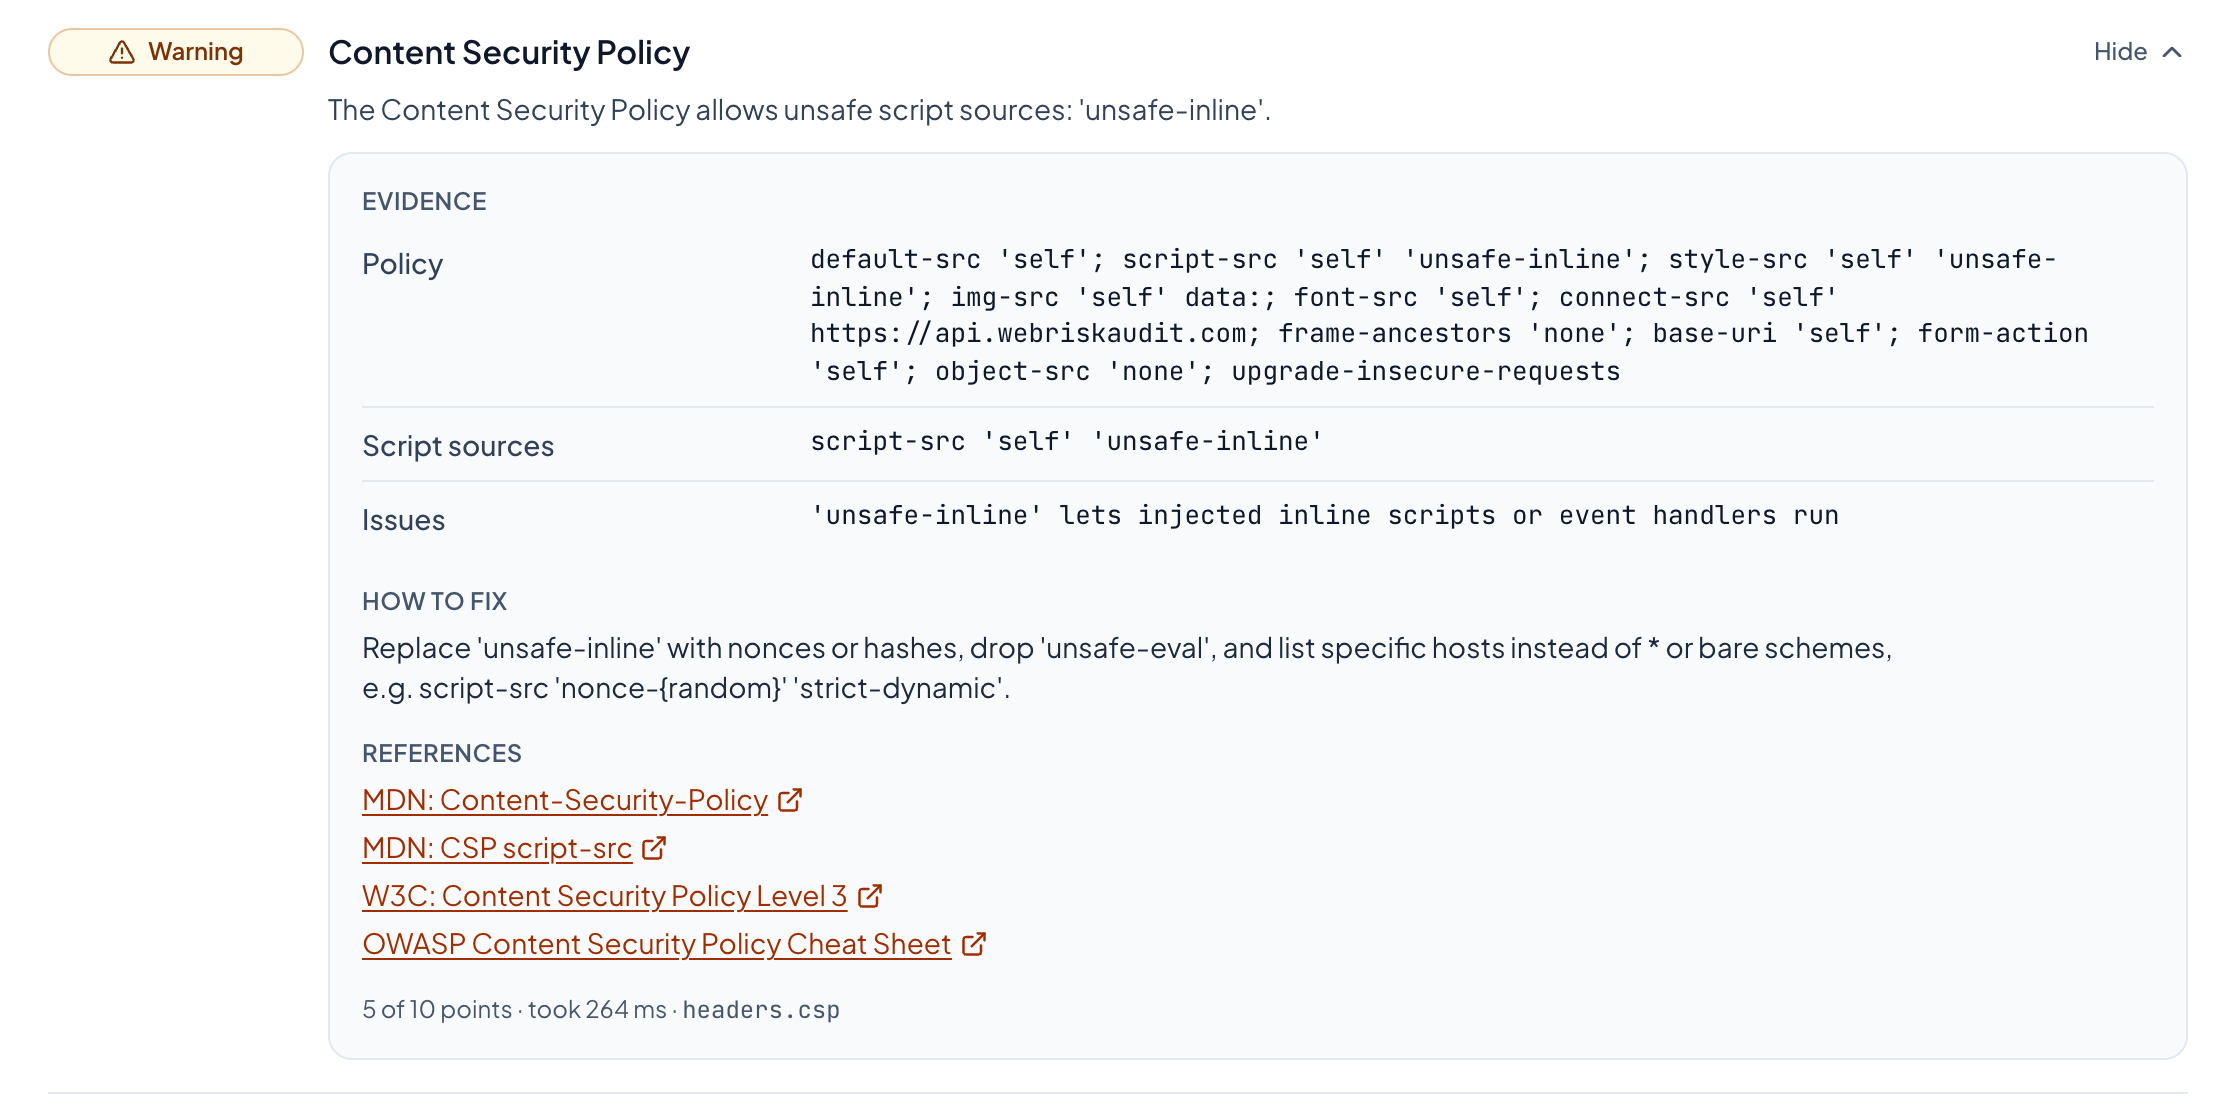
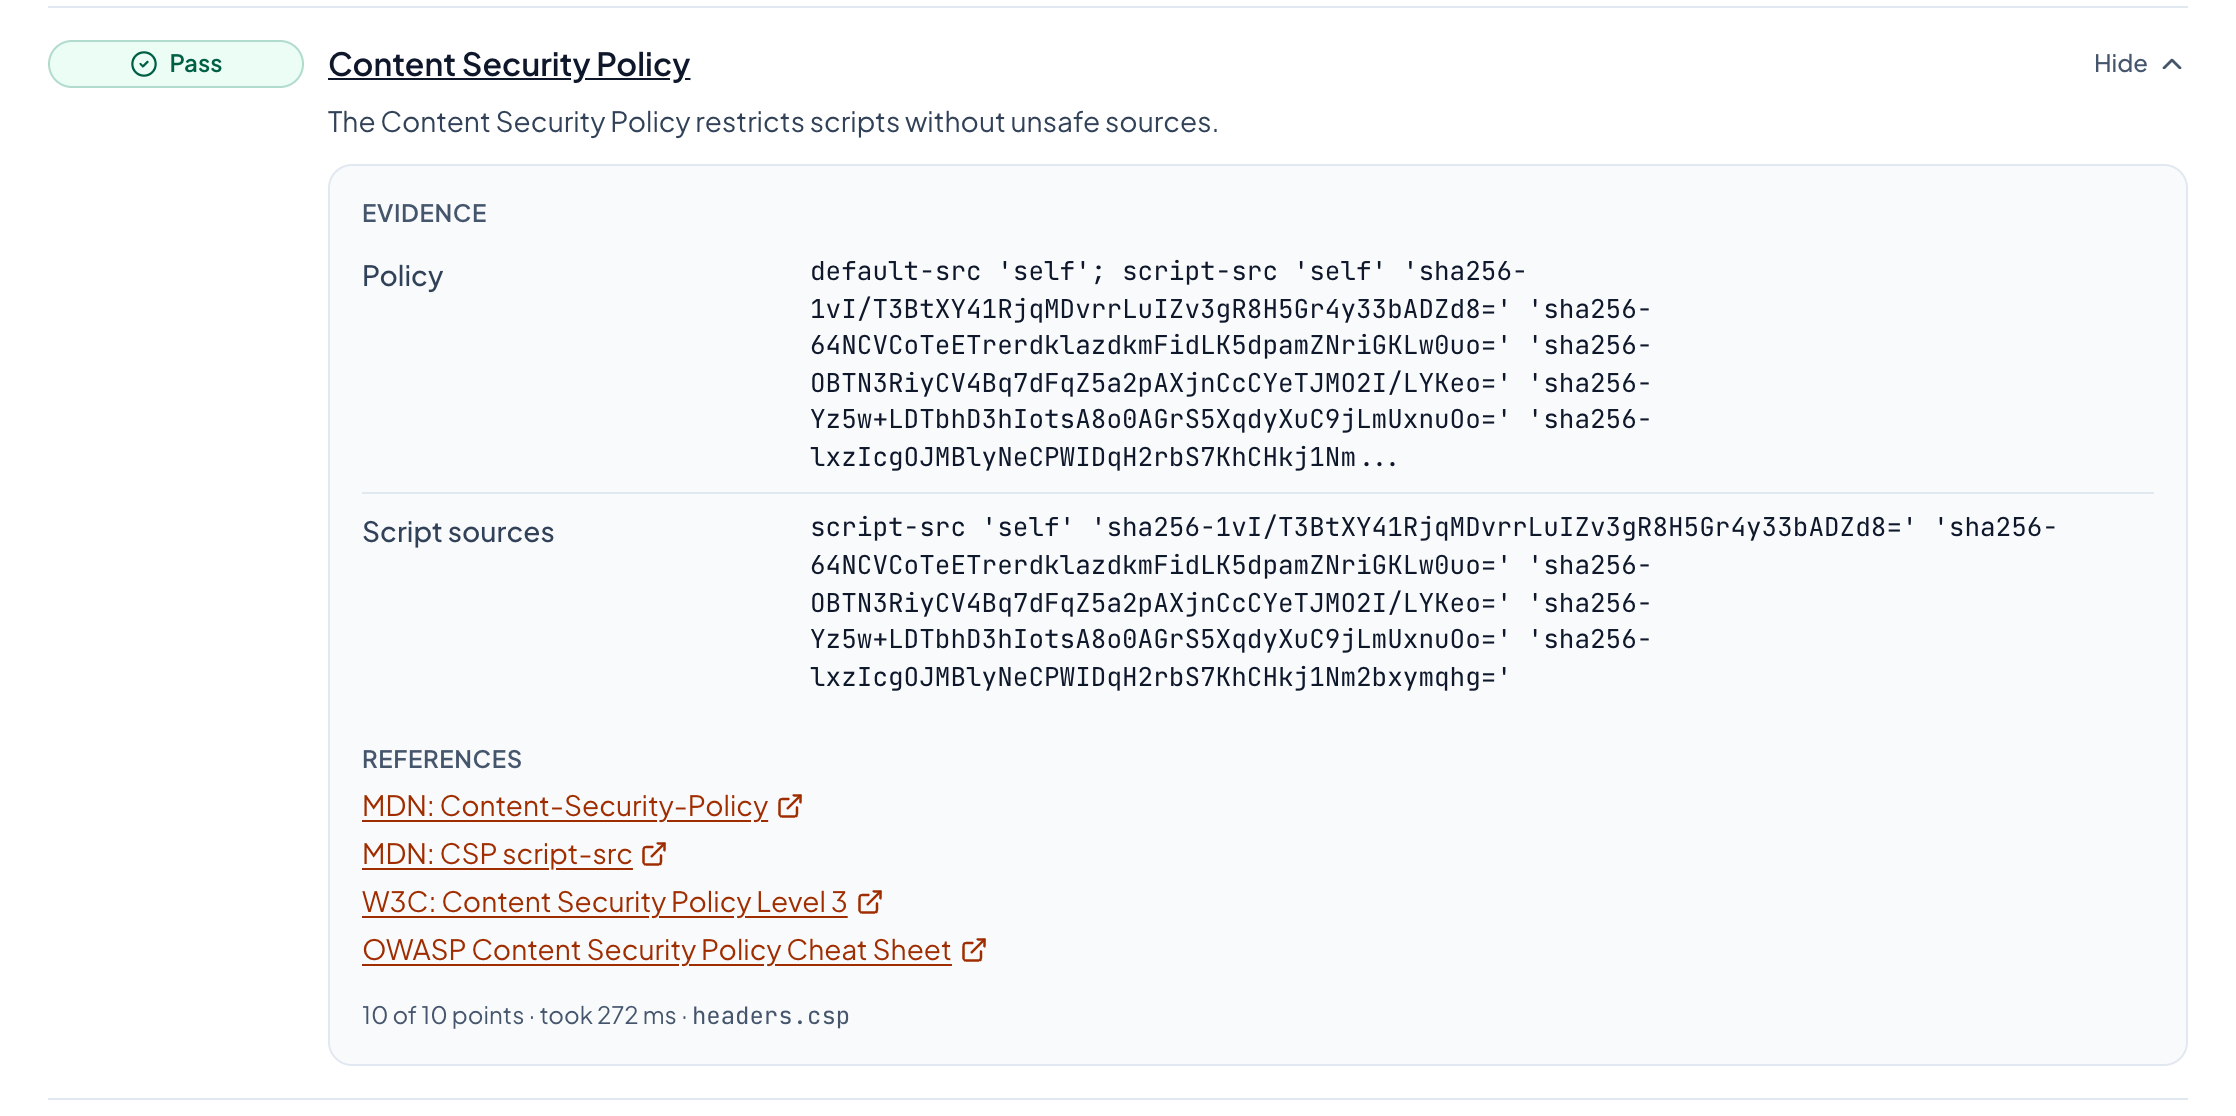
docs: show the site at 100 with its hash-based CSP
The site's report no longer has a warning. Update the screenshots,
the example output and the sentence about the warning, drop the
roadmap item and add the CSP to the engineering highlights.

diff --git a/README.md b/README.md
@@ -22,7 +22,7 @@ security headers, scored out of 100, with an explanation of every verdict.
 </div>
 
 <p align="center">
-  <img src="docs/images/report.png" alt="A WebRiskAudit report for webriskaudit.com: grade A, 94 out of 100, with a score per category and a list of checks" width="880">
+  <img src="docs/images/report.png" alt="A WebRiskAudit report for webriskaudit.com: grade A, 100 out of 100, with a score per category and a list of checks" width="880">
 </p>
 
 ## What it does
@@ -57,11 +57,12 @@ Four ideas shape how it works:
 
 ## See it in action
 
-Open a check to see its evidence, how to fix a problem and references. This
-is the site's own report, including the one warning it still has:
+Open a check to see its evidence and references; a check that does not pass
+also says how to fix the problem. This is the site's own Content Security
+Policy, with a hash for each inline script:
 
 <p align="center">
-  <img src="docs/images/check-details.png" alt="An opened check: Content Security Policy with a warning, showing the policy as evidence, how to fix it, and references to MDN, W3C and OWASP" width="760">
+  <img src="docs/images/check-details.png" alt="An opened check: Content Security Policy passes, showing the policy with its script hashes as evidence, and references" width="760">
 </p>
 
 Try it at **[webriskaudit.com](https://webriskaudit.com)**. Only scan domains
@@ -82,7 +83,7 @@ curl -s -X POST https://api.webriskaudit.com/api/v1/scan \
 ```json
 {
   "domain": "webriskaudit.com",
-  "score": 94,
+  "score": 100,
   "grade": "A",
   "coverage": { "scored": 12, "inconclusive": 0, "total": 12 }
 }
@@ -195,6 +196,11 @@ slot.
   second DNS answer cannot redirect it.
   [The threat model](docs/THREAT_MODEL.md) covers this and the rest of the
   scanner's defences.
+- **A strict Content Security Policy on a static site.** A static export
+  cannot add a per-request nonce, so the build hashes each inline script into
+  `script-src`, which has no `'unsafe-inline'`. The build fails rather than
+  ship a policy that would break the site, and the smoke test hashes the
+  pages as they are served, so a script changed at the edge is caught too.
 - **Abuse controls.** Per-client and global rate limits, one running scan per
   client, a bounded queue, a request size limit, a report cache and shared
   scans for concurrent requests.
@@ -536,8 +542,6 @@ An automated, outside view has limits, and the report says so where it can.
 
 ## Roadmap
 
-- A hash-based Content Security Policy for the site, without
-  `'unsafe-inline'` in `script-src`
 - Narrow the known limitations where it can be done passively, starting with
   expanding SPF includes to count nested lookups
 

diff --git a/docs/METHODOLOGY.md b/docs/METHODOLOGY.md
@@ -123,7 +123,8 @@ Examples:
 
 - webriskaudit.com on 1 November 2026: 11 scored checks pass and
   `headers.csp` (weight 10) warns, so 85 of 90 points: score 94, grade A. The
-  headers category has 30 of 35 points: 86.
+  headers category has 30 of 35 points: 86. Since then the site's policy uses
+  script hashes, and all 12 checks pass: score 100.
 - A mail-only domain without A/AAAA records: only the email checks (25 of 90
   points) complete, so there is no overall score; the email category is still
   scored.
